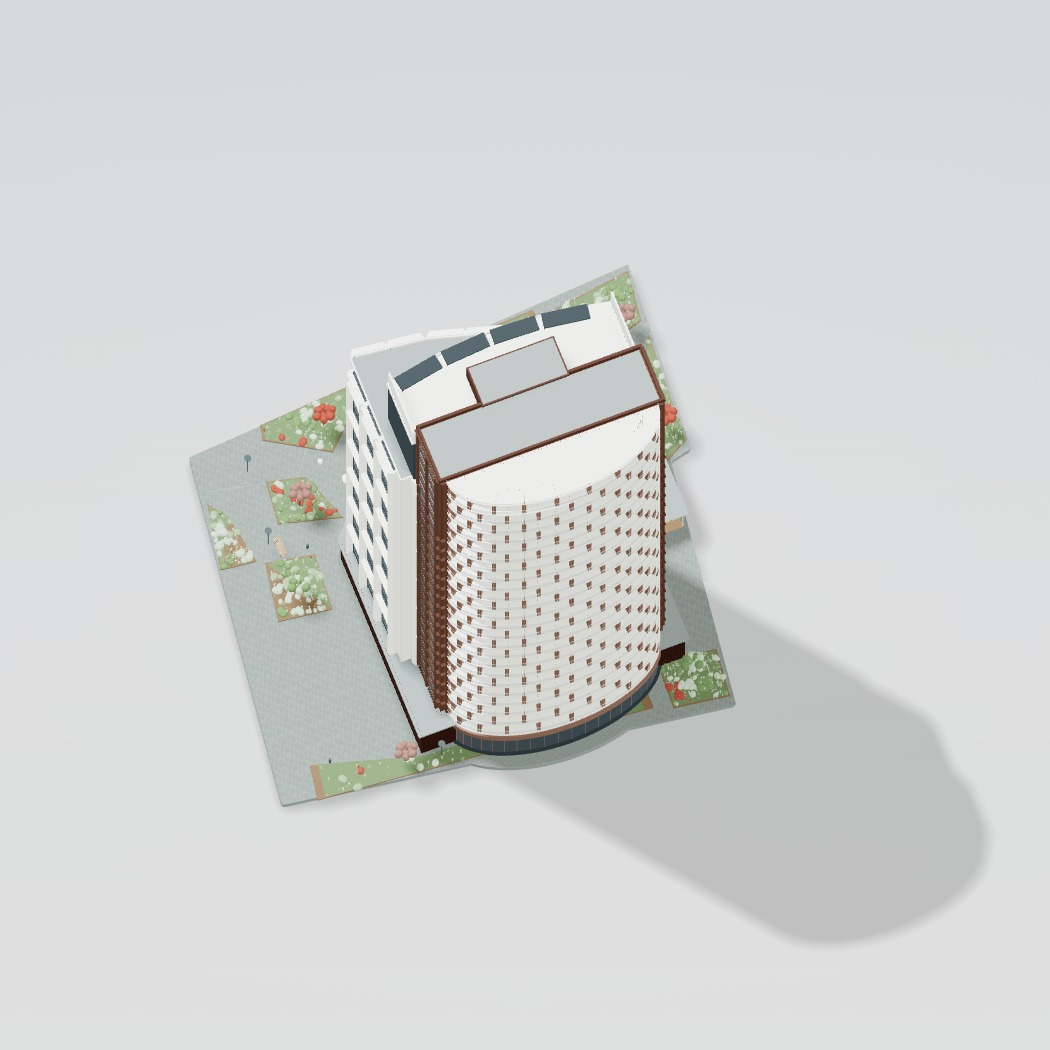
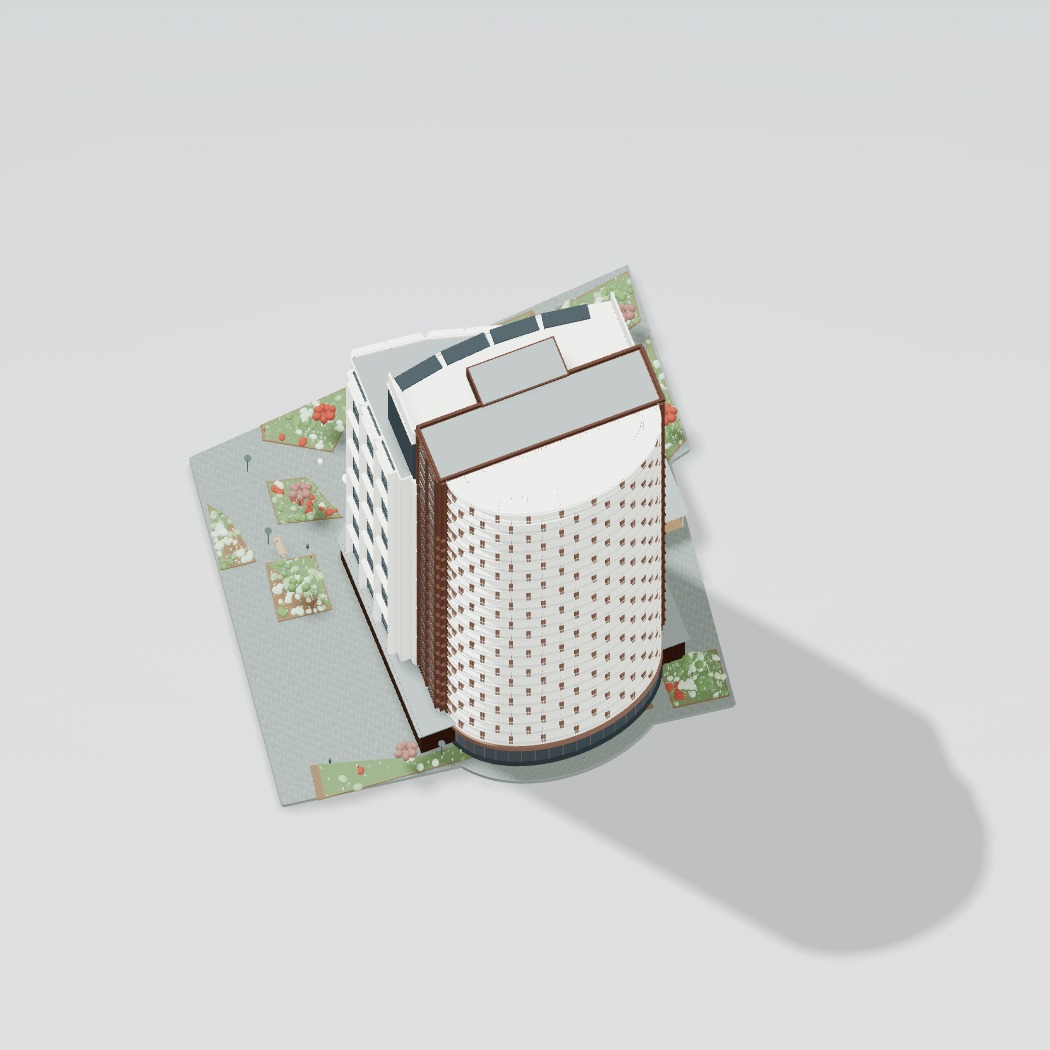
Increase rear half-oval projection by 25 percent while preserving the front

Changed region(s): [[0.4267, 0.3962, 0.64, 0.7619], [0.7924, 0.8838, 0.8838, 0.9143]]

diff --git a/assets/photo-tower-project.js b/assets/photo-tower-project.js
@@ -20,8 +20,8 @@
   const podiumBrick=material(0xa48f80,{map:texture('brick'),roughness:.94});
   const plants=[0x6f895c,0x8ea27f,0xb4c0ad,0xa79461,0x96736a,0xa35142,0xc1b582,0xabc0a3].map(c=>material(c,{roughness:1,flatShading:true}));
   const unit=new T.BoxGeometry(1,1,1),ball=new T.IcosahedronGeometry(1,2),shrub=new T.IcosahedronGeometry(1,1),cylinder=new T.CylinderGeometry(1,1,1,8),cone=new T.ConeGeometry(1,1,6);geo.push(unit,ball,shrub,cylinder,cone);
-  const rear={x:7.2,z:-.5,rx:6.4,rz:12.9,base:6.2,floors:24,step:3.15};let landscaping=false;
-  const insideRear=(x,z)=>x>=rear.x&&((x-rear.x)/6.65)**2+((z-rear.z)/13.15)**2<1;
+  const rear={x:7.2,z:-.5,rx:6.4,rz:12.9,base:6.2,floors:24,step:3.15,projectionScale:1.25};let landscaping=false;
+  const insideRear=(x,z)=>x>=rear.x&&((x-rear.x)/(6.65*rear.projectionScale))**2+((z-rear.z)/13.15)**2<1;
   function stamp(G,m,x,y,z,sx,sy,sz,ry=0,q=null){if(landscaping&&insideRear(x,z))return;let b=batches.get(G.uuid+':'+m.uuid);if(!b)batches.set(G.uuid+':'+m.uuid,b={G,m,list:[]});dummy.position.set(x,y,z);dummy.scale.set(sx,sy,sz);dummy.rotation.set(0,ry,0);if(q)dummy.quaternion.copy(q);dummy.updateMatrix();b.list.push(dummy.matrix.clone());}
   const box=(m,x,y,z,w,h,d,a=0)=>stamp(unit,m,x,y,z,w,h,d,a);
   function branch(a,b,r){const va=new T.Vector3(...a),vb=new T.Vector3(...b),v=vb.clone().sub(va),mid=va.add(vb).multiplyScalar(.5),q=new T.Quaternion().setFromUnitVectors(new T.Vector3(0,1,0),v.clone().normalize());stamp(cylinder,M.trunk,mid.x,mid.y,mid.z,r,v.length(),r,0,q);}
@@ -176,7 +176,7 @@
   batches.forEach(({G,m,list})=>{const mesh=new T.InstancedMesh(G,m,list.length);list.forEach((matrix,i)=>mesh.setMatrixAt(i,matrix));mesh.instanceMatrix.needsUpdate=true;mesh.castShadow=mesh.receiveShadow=true;vpm.add(mesh)});
   // Additive rear half-oval at the original rear plane near X = 7.2: the white
   // front, roof screens, original brown bar and front podium are untouched.
-  const annex=new T.Group();annex.name='rear-oval-annex';annex.userData.reference={...rear};vpm.add(annex);
+  const annex=new T.Group();annex.name='rear-oval-annex';annex.scale.x=rear.projectionScale;annex.position.x=rear.x*(1-rear.projectionScale);annex.userData.reference={...rear,rx:rear.rx*rear.projectionScale};vpm.add(annex);
   const copper=material(0x967363,{metalness:.22,roughness:.64}),innerShell=material(0x3c3531),partition=material(0x9b8d80);
   const guard=material(0xaab8b9,{transparent:true,opacity:.22,depthWrite:false,side:T.DoubleSide,roughness:.19,metalness:.08});
   const darkGlass=GranVisual.glass(material(0x343e43,{roughness:.24,metalness:.12}));
@@ -212,7 +212,7 @@
   }
   rearBatches.forEach(({G,m,list})=>{const mesh=new T.InstancedMesh(G,m,list.length);list.forEach((matrix,i)=>mesh.setMatrixAt(i,matrix));mesh.instanceMatrix.needsUpdate=true;mesh.castShadow=m!==guard;mesh.receiveShadow=true;annex.add(mesh)});
   root.userData.geo=geo;root.userData.materials=materials;root.userData.reference={name:'Project 2 from supplied photos',estimated:true,brownWhiteTower:true,whitePortalMouldings:true,brickPodium:true,continuousPodium:true,raisedRoofShoulder:true,projectingServiceRoom:true,roofScreen:true,roofBlades,bladeAxis:'z',obliqueWhiteFront:true,whitePlan,facetedWhiteFront:true,frontFacets:3,fannedUpperPanels:true,diagonalLandscape:true,site,playPlan,portalDepth:.94,upperBrownBays:true,podiumOverhang:1.065,pergola:true,hangingRings:2,mixedPlanting:true};
-  root.userData.reference.rearOval={...rear,frontPreserved:true};
+  root.userData.reference.rearOval={...rear,rx:rear.rx*rear.projectionScale,frontPreserved:true};
   return{root,g,radius:Math.max(Math.hypot(63,57)/2,82.6*.95),maxH:82.6};
  }
  global.GranPhotoTower={build};

diff --git a/review/project-two-rear-oval/README.md b/review/project-two-rear-oval/README.md
@@ -2,15 +2,15 @@
 
 Основа: aaedae41ee0d6d20222cb59a5a03b20f84cc7d2a. Добавляется только ко второй карточке, ул. Баб****ая. Полный SHA версии указан в PR.
 
-По шести новым архитектурным фотографиям снаружи задней коричневой плоскости добавлен полуовальный объём. Он включает светлые поэтажные плиты, заглублённое остекление лоджий, прозрачные ограждения, тонкие светлые профили и парные бронзовые стойки, смещающиеся через этаж. Добавлены разделительные стенки лоджий и остеклённое основание с бронзовым поясом. Пояса привязаны к существующим этажам и высоте готовой модели; размеры и скрытые детали оценочные.
+По шести новым архитектурным фотографиям снаружи задней коричневой плоскости добавлен полуовальный объём. Он включает светлые поэтажные плиты, заглублённое остекление лоджий, прозрачные ограждения, тонкие светлые профили и парные бронзовые стойки, смещающиеся через этаж. Добавлены разделительные стенки лоджий и остеклённое основание с бронзовым поясом. Пояса привязаны к существующим этажам и высоте готовой модели; размеры и скрытые детали оценочные. По уточнению пользователя выступ полуовала увеличен на 25% относительно первого варианта 60e3593438411effeef4c9f8d6d8a17dea41b5f8: глубина меняется относительно плоскости примыкания, ширина вдоль фасада и высота сохранены. Вместе увеличены только задний каркас, остекление и его основание.
 
 Белый лицевой объём, его оконные порталы, верхние тёмные секции, коричневая пластина и передний стилобат сохранены. Дополнение находится у задней плоскости X≈7,2 и выше не выходит за прежнюю отметку. На существующей территории подавлены только растения и мебель, которые попадали внутрь новой части; последовательность случайного размещения оставшихся посадок сохранена. Небольшая площадка под пристройкой добавлена только сзади. Сверху новая кровля закономерно видна за прежним парапетом; это часть добавленного заднего объёма.
 
-Тексты, показатели, калькулятор, остальные проекты, штатная камера, разрешение и вращение не менялись. Новые повторяющиеся детали инстансированы. Проект 2: 260 561 треугольник, 81 mesh против 215 075 / 67 до дополнения. Это счётчики сцены, не измерение FPS на компьютере пользователя.
+Тексты, показатели, калькулятор, остальные проекты, штатная камера, разрешение и вращение не менялись. Новые повторяющиеся детали инстансированы. Проект 2: 260 457 треугольников, 81 mesh против 215 075 / 67 до дополнения. Это счётчики сцены, не измерение FPS на компьютере пользователя.
 
 ## Проверки
 
-npm test: цены, геометрия, DOM, сценарий без WebGL и жизненный цикл сцен. Проверяются полуовальная выпуклость, реальные границы дополнения с учётом матриц инстансов и совпадение пересечений двенадцати лицевых лучей с опубликованной моделью. Контрольные лучи и SHA исходного модуля сохранены в front-baseline.json. В Chromium нет ошибок JavaScript и переполнения при 390 px.
+На первом варианте прошёл npm test: цены, геометрия, DOM, сценарий без WebGL и жизненный цикл сцен. После увеличения глубины повторно пройдены tests/geometry.cjs и tests/scenes.cjs, а также проверка в Chromium. Проверяются полуовальная выпуклость, реальные границы дополнения с учётом матриц инстансов и совпадение пересечений двенадцати лицевых лучей с опубликованной моделью. Контрольные лучи и SHA исходного модуля сохранены в front-baseline.json. В Chromium нет ошибок JavaScript и переполнения при 390 px.
 
 Все кадры — реальный Three.js сайта:
 

diff --git a/AGENTS.md b/AGENTS.md
@@ -91,3 +91,5 @@
 - По новым фотографиям добавить полуовальную часть со стороны заднего коричневого фасада. Белый лицевой фасад, верхнюю тёмную надстройку и передний кирпичный стилобат не изменять.
 - Характерные детали: светлые криволинейные поэтажные пояса, заглублённые лоджии, прозрачные ограждения, парные бронзовые стойки со смещением между этажами и остеклённое нижнее основание. Согласовать с существующими этажными отметками модели.
 - Сохранять вращение и разрешение. Проверить сохранение лицевой геометрии относительно опубликованной версии и показать реальные задние ракурсы Three.js.
+
+- По следующему уточнению увеличить объёмность полуовала: выступ от задней плоскости увеличен на 25%, ширина вдоль фасада и высота сохранены. Масштабировать только добавленную заднюю часть относительно места примыкания, не сдвигать готовую башню и лицевой фасад.
